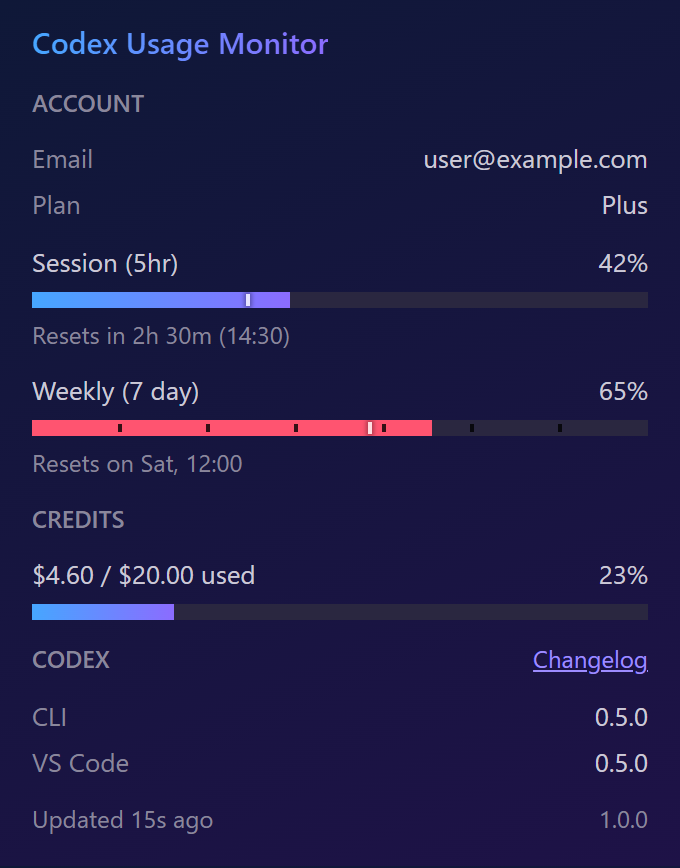
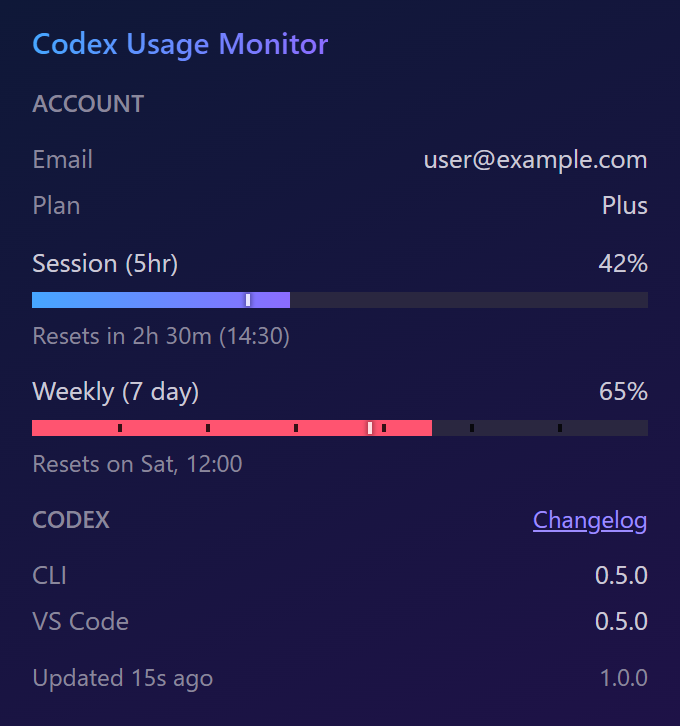
docs: drop sample CREDITS row from README screenshots
A Plus/Pro account returns rate_limits.credits=null, so the typical
widget shows only the 5h + weekly bars (matching the demo GIF). The
screenshots now reflect that instead of demo credit data.

diff --git a/tools/make_screenshots.py b/tools/make_screenshots.py
@@ -72,14 +72,15 @@ def popup_data(lang: str) -> dict:
              'warn': True, 'reset_text': RESET[lang]['seven_day'],
              'midnights': [0.143, 0.286, 0.429, 0.571, 0.714, 0.857], 'marker_rel': 0.55},
         ],
-        'extra': {'pct_text': '23%', 'fill_pct': 0.23, 'spent_text': SPENT[lang]},
+        # No CREDITS bar: a Plus/Pro account returns rate_limits.credits=null,
+        # so the typical widget shows only the 5h + weekly bars (matches the demo GIF).
+        'extra': None,
         'installations': [{'name': 'CLI', 'version': '0.5.0'}, {'name': 'VS Code', 'version': '0.5.0'}],
         'status': {'text': UPDATED[lang], 'is_error': False},
         'layout': [
             {'key': 'account', 'state': 'collapsed'},
             {'key': 'five_hour', 'state': 'visible'},
             {'key': 'seven_day', 'state': 'visible'},
-            {'key': 'extra_usage', 'state': 'collapsed'},
             {'key': 'installations', 'state': 'collapsed'},
             {'key': 'status', 'state': 'collapsed'},
         ],
@@ -101,7 +102,6 @@ def settings_fields(lang: str, L: dict) -> list:
         {'key': 'account', 'label': L['account'], 'state': 'collapsed'},
         {'key': 'five_hour', 'label': LABELS[lang]['five_hour'], 'state': 'visible'},
         {'key': 'seven_day', 'label': LABELS[lang]['seven_day'], 'state': 'visible'},
-        {'key': 'extra_usage', 'label': L['extra_usage'], 'state': 'collapsed'},
         {'key': 'installations', 'label': L['claude_code'], 'state': 'collapsed'},
         {'key': 'status', 'label': L['status_label'], 'state': 'collapsed'},
     ]
